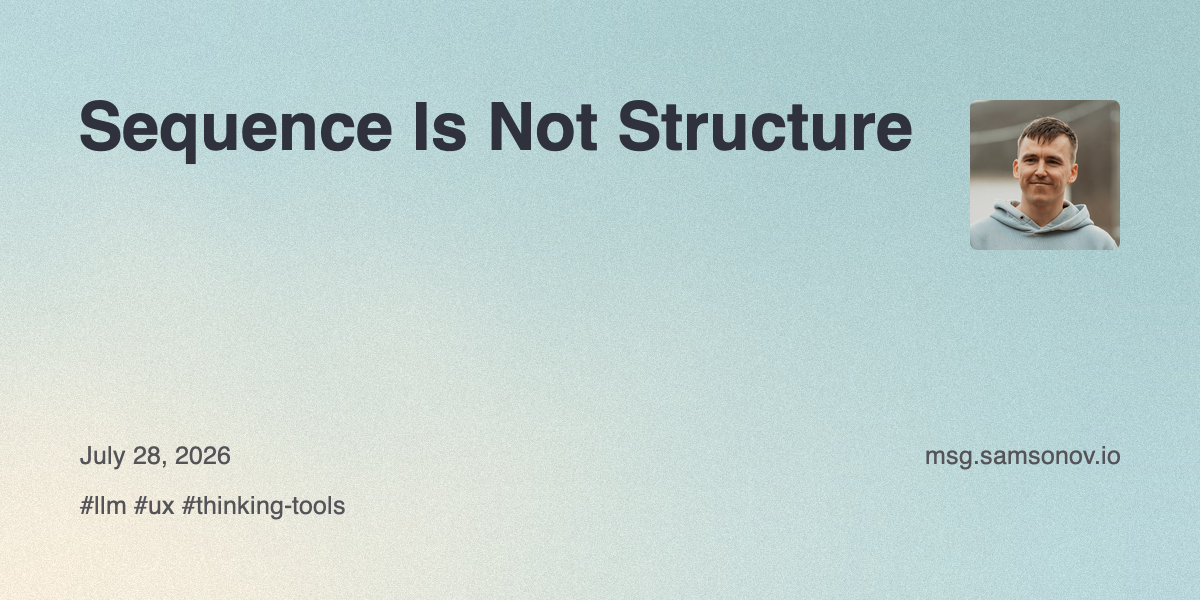
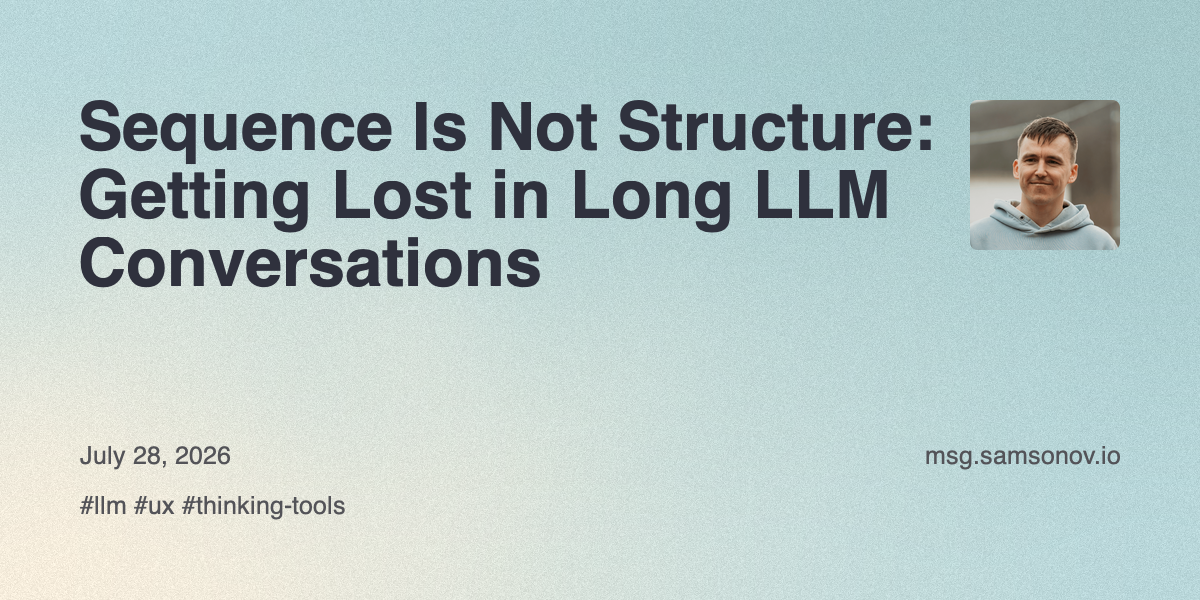
Retitle: add subtitle to Sequence Is Not Structure

Changed region(s): [[0.0617, 0.27, 0.74, 0.48]]

diff --git a/_posts/2026-07-28-sequence-is-not-structure.md b/_posts/2026-07-28-sequence-is-not-structure.md
@@ -1,6 +1,6 @@
 ---
 layout: post
-title: "Sequence Is Not Structure"
+title: "Sequence Is Not Structure: Getting Lost in Long LLM Conversations"
 date: 2026-07-28
 description: "Long LLM conversations preserve sequence, not structure. I want a way to see where ideas branch, drift, and remain unfinished."
 tags: [llm, ux, thinking-tools]
